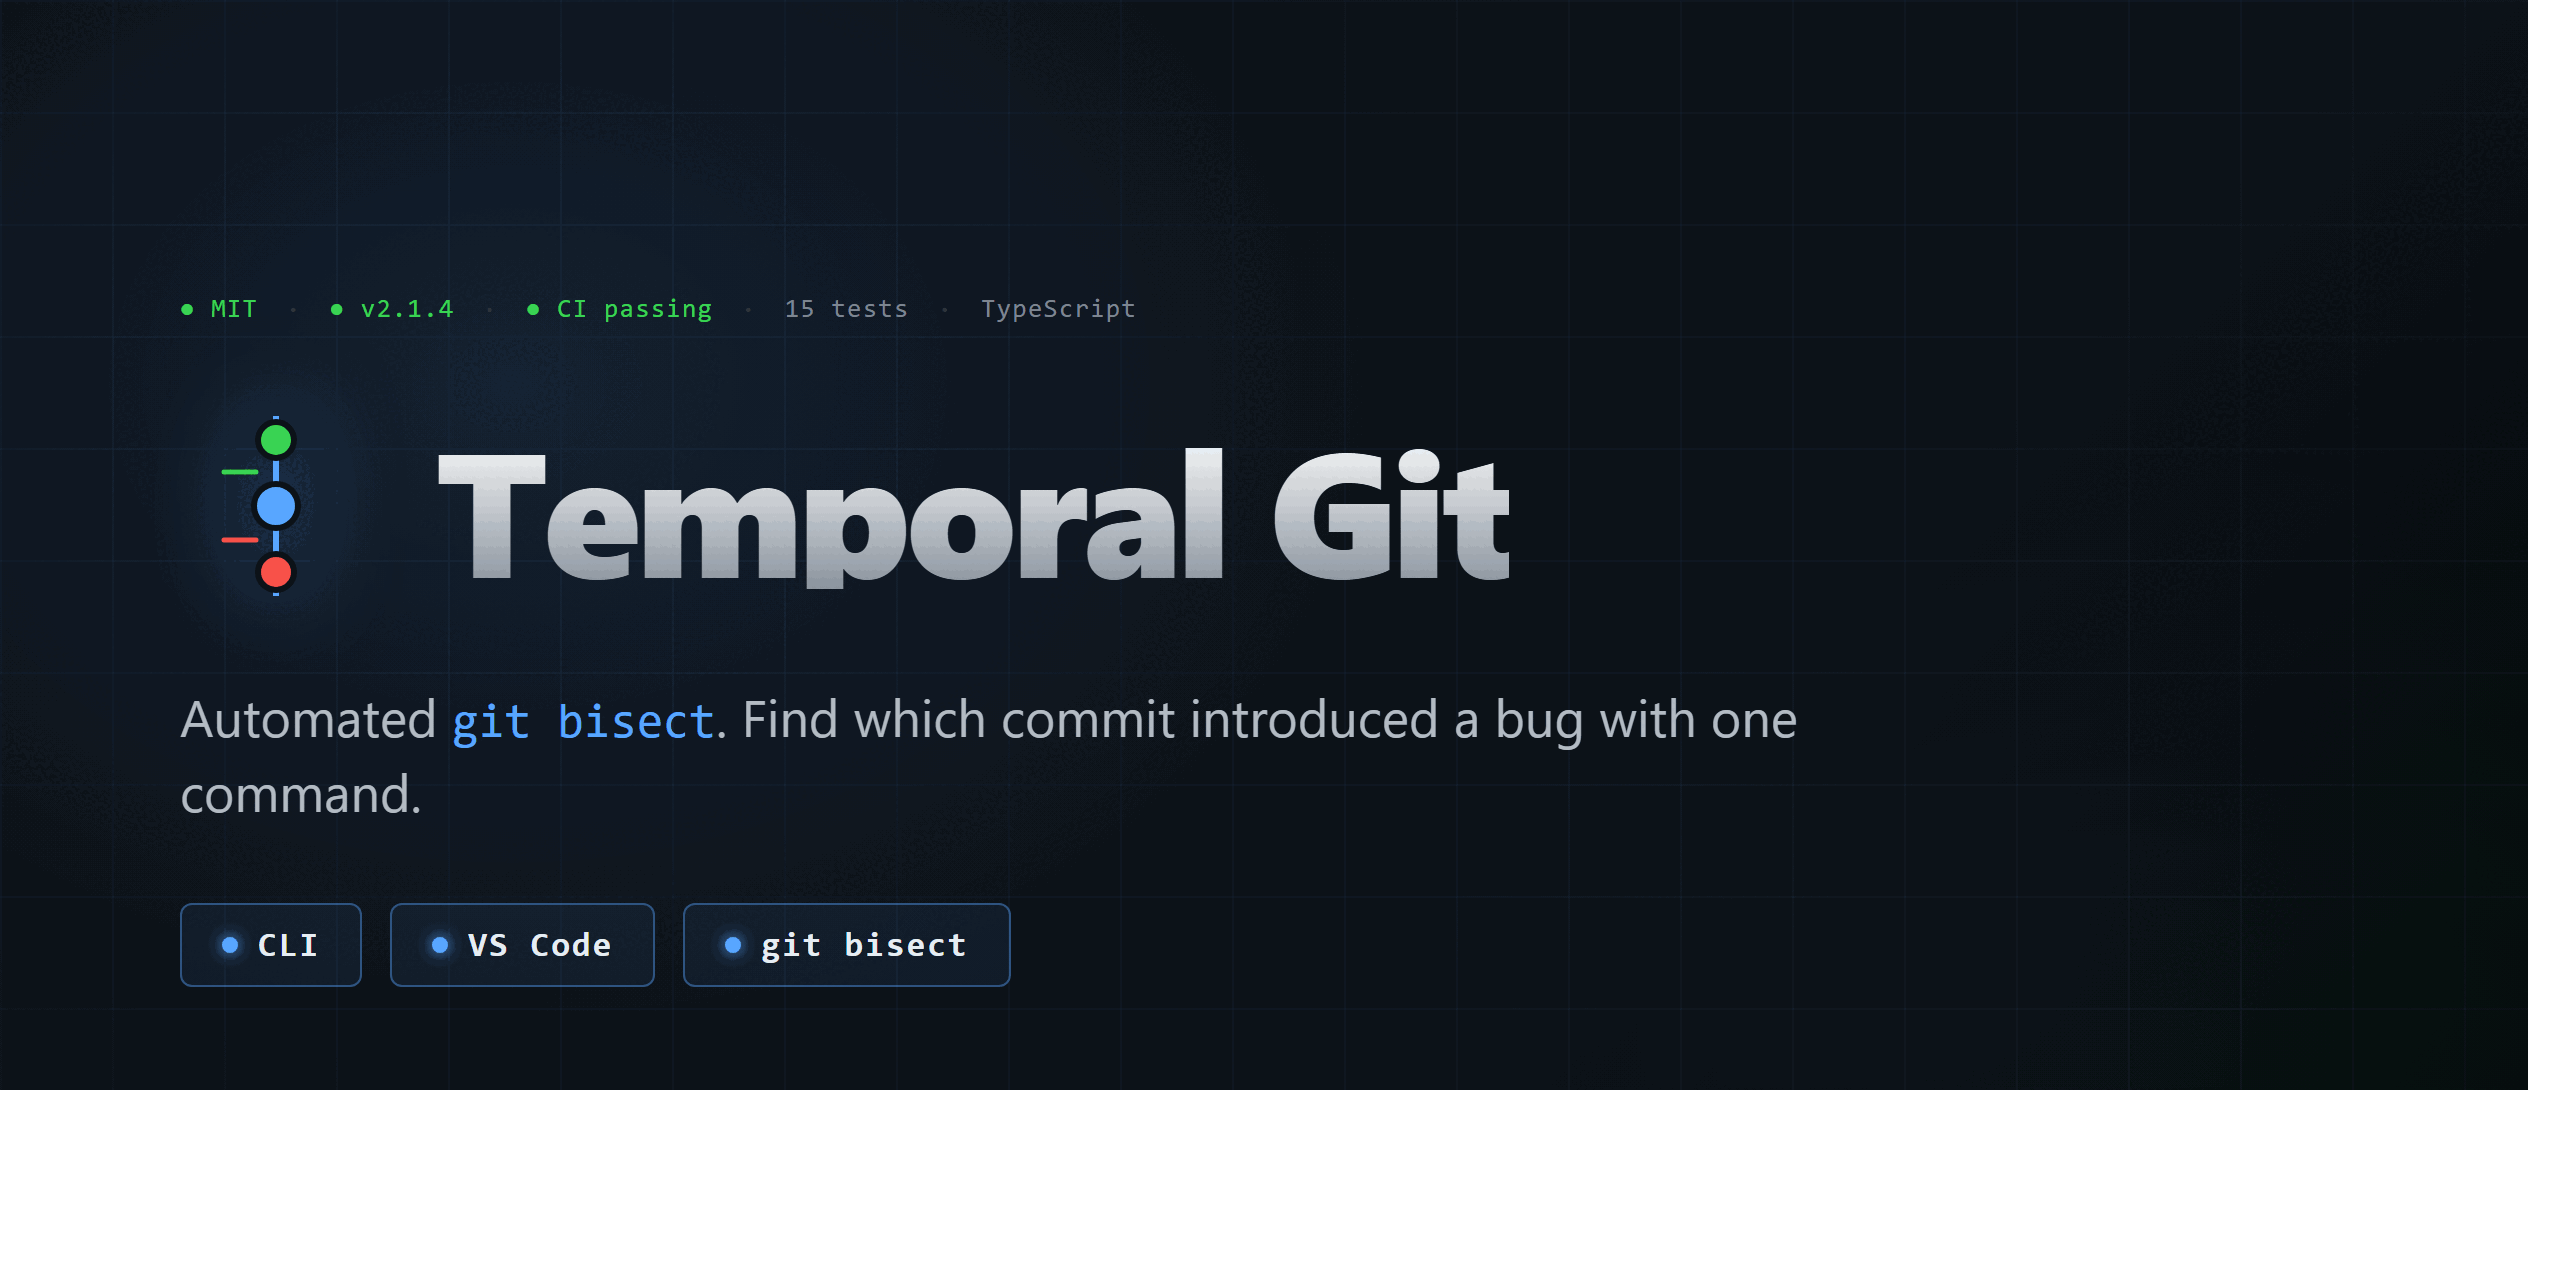
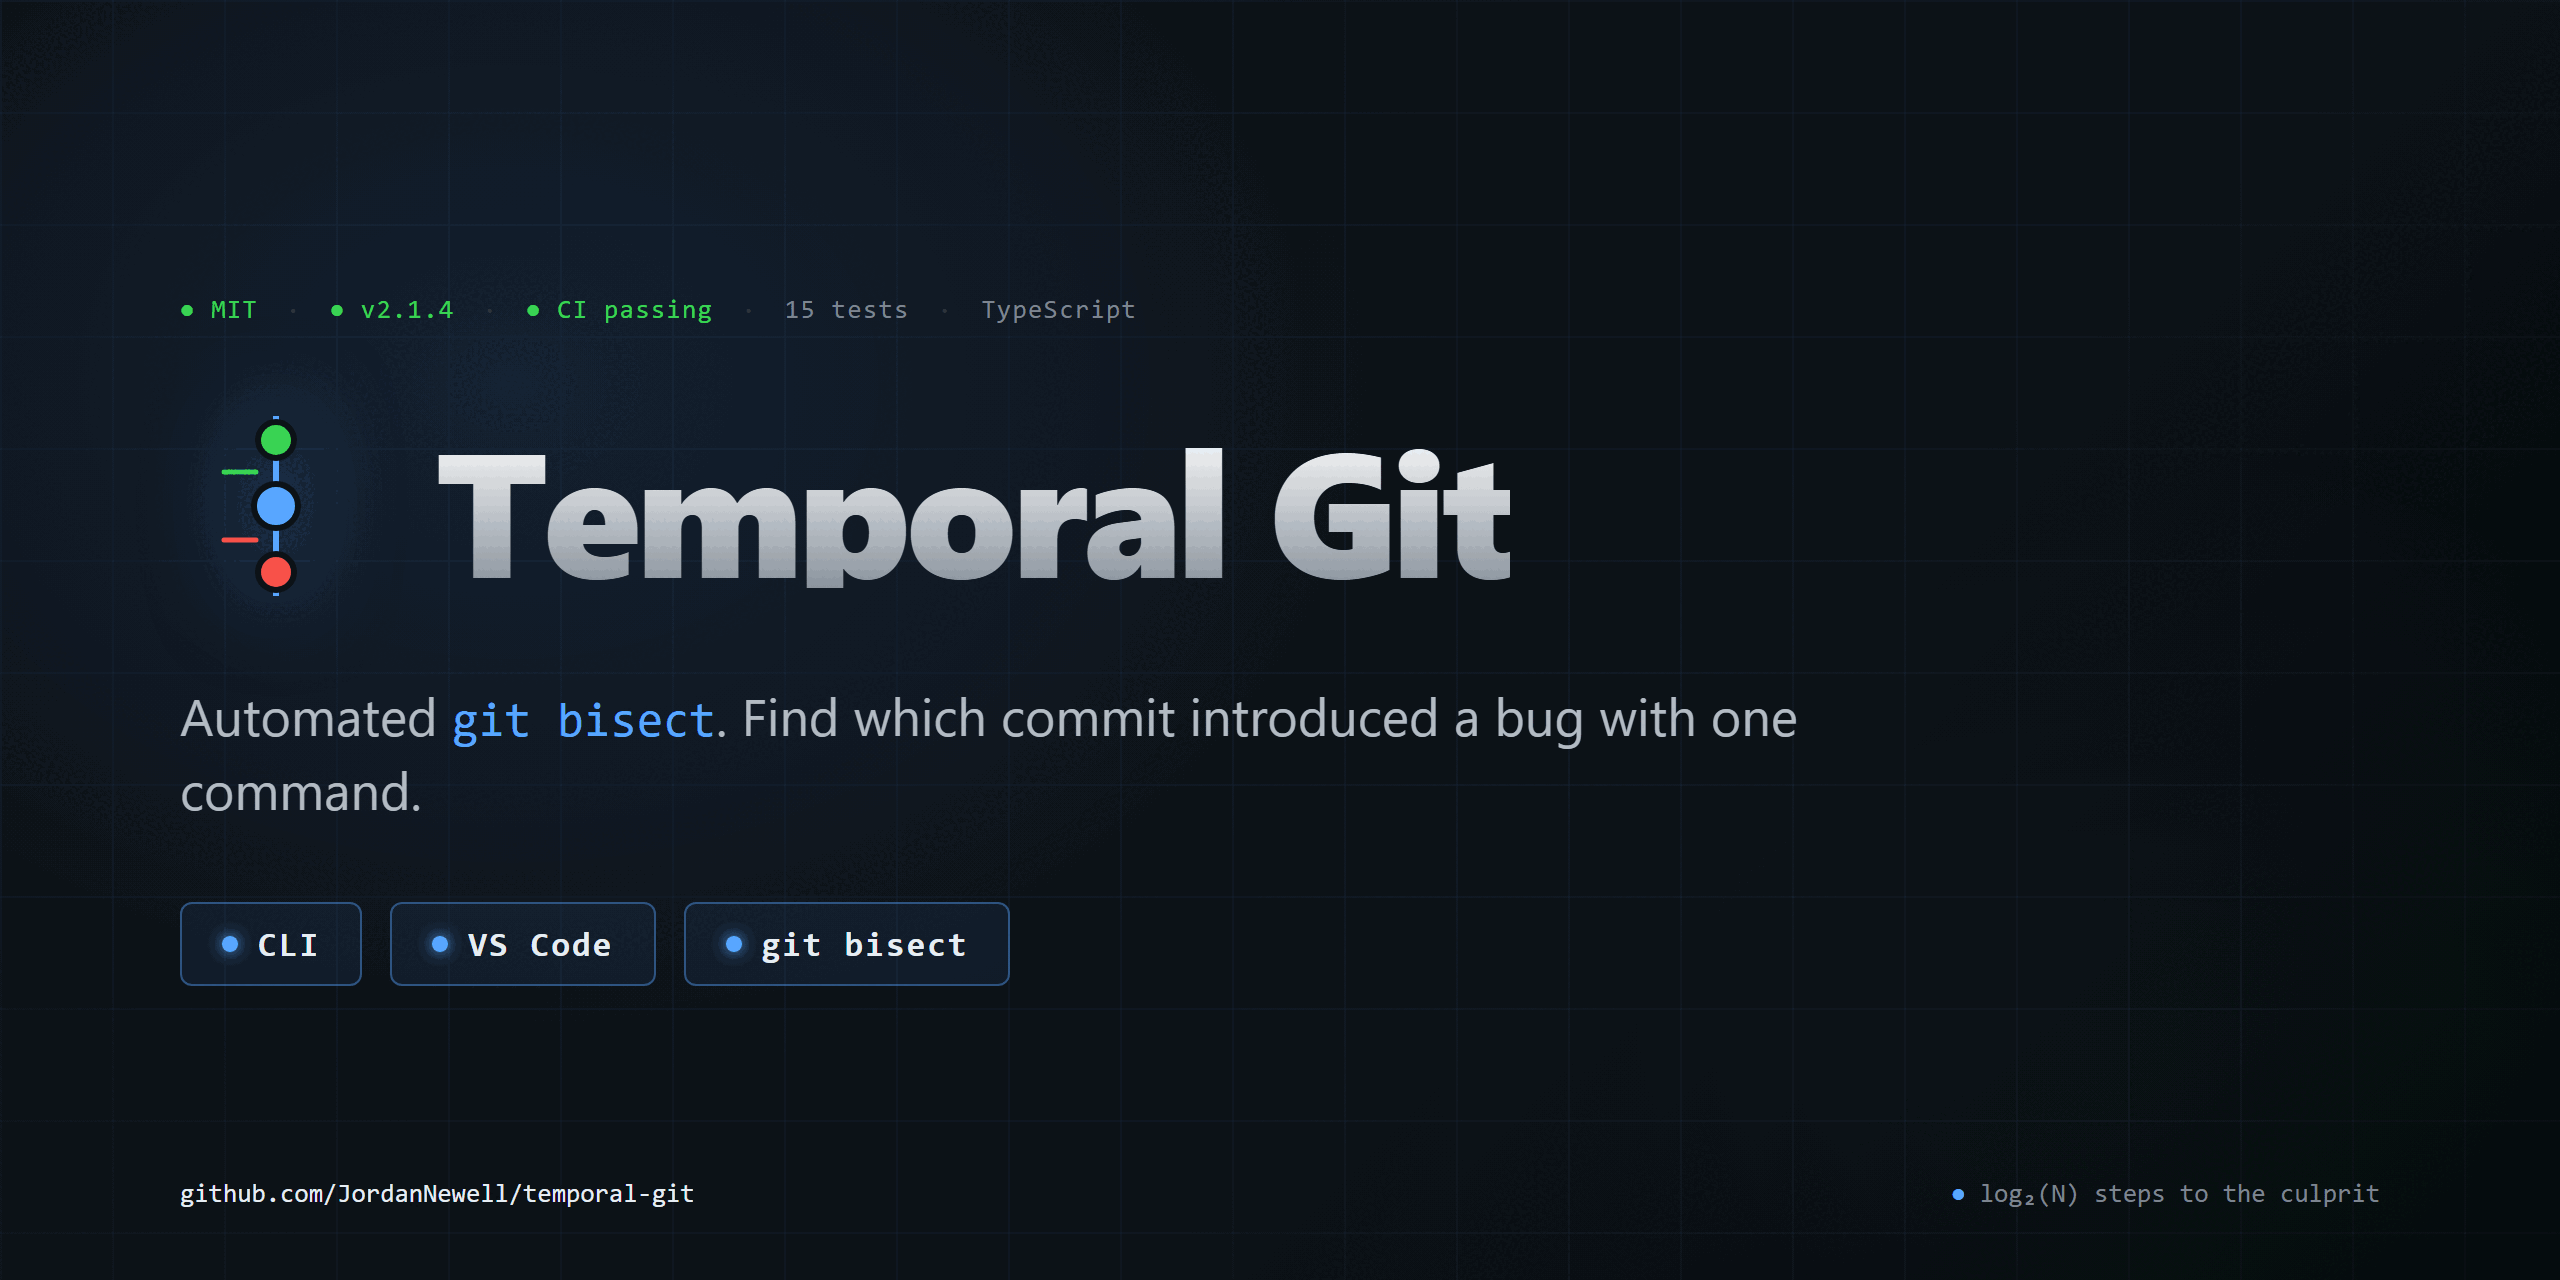
Re-render hero/terminal/social-preview via Playwright; add html bg
Chrome's --headless --screenshot was clipping the body to ~310 of 400
CSS px (chips cut off) and leaving scrollbar gutter as white canvas.
Switched to Playwright which respects viewport size + deviceScaleFactor
exactly. Also added matching html background color so any gutter shows
dark instead of white.

diff --git a/assets/hero.html b/assets/hero.html
@@ -4,6 +4,7 @@
 <meta charset="utf-8">
 <style>
   * { box-sizing: border-box; margin: 0; padding: 0; }
+  html { background: #0a0e14; }
   html, body { width: 1280px; height: 400px; overflow: hidden; }
   body {
     background:

diff --git a/assets/social-preview.html b/assets/social-preview.html
@@ -4,6 +4,7 @@
 <meta charset="utf-8">
 <style>
   * { box-sizing: border-box; margin: 0; padding: 0; }
+  html { background: #0a0e14; }
   html, body { width: 1280px; height: 640px; overflow: hidden; }
   body {
     background:

diff --git a/assets/terminal.html b/assets/terminal.html
@@ -4,6 +4,7 @@
 <meta charset="utf-8">
 <style>
   * { box-sizing: border-box; margin: 0; padding: 0; }
+  html { background: #010409; }
   html, body { width: 900px; height: 540px; overflow: hidden; }
   body {
     background: #010409;